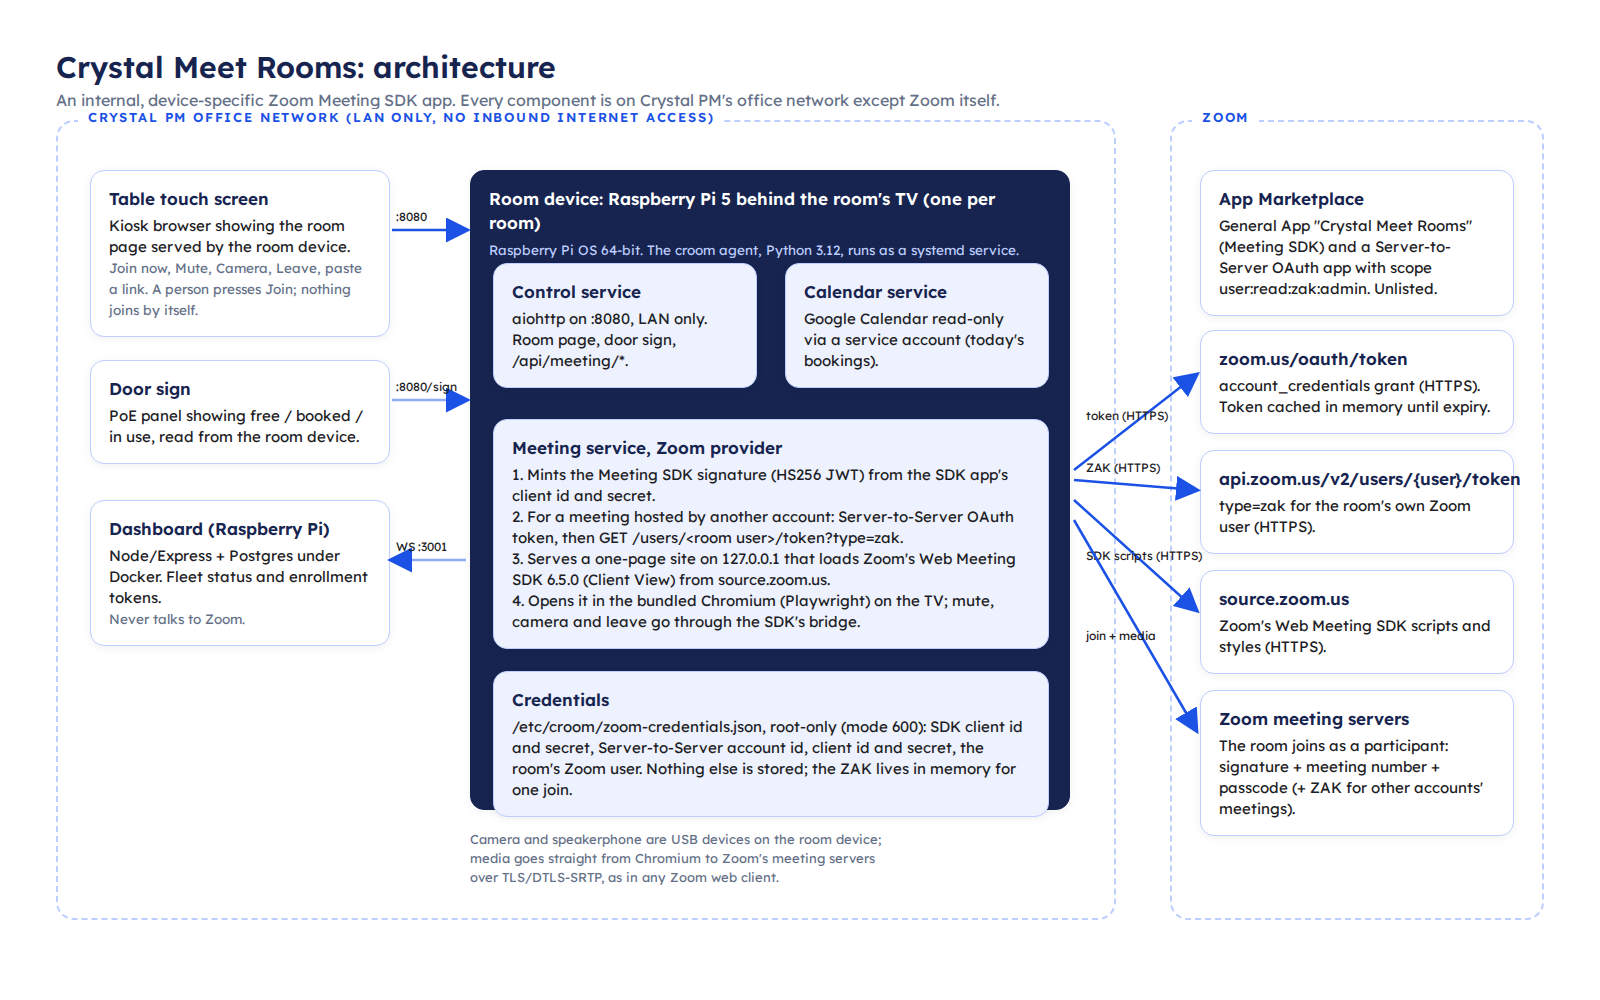
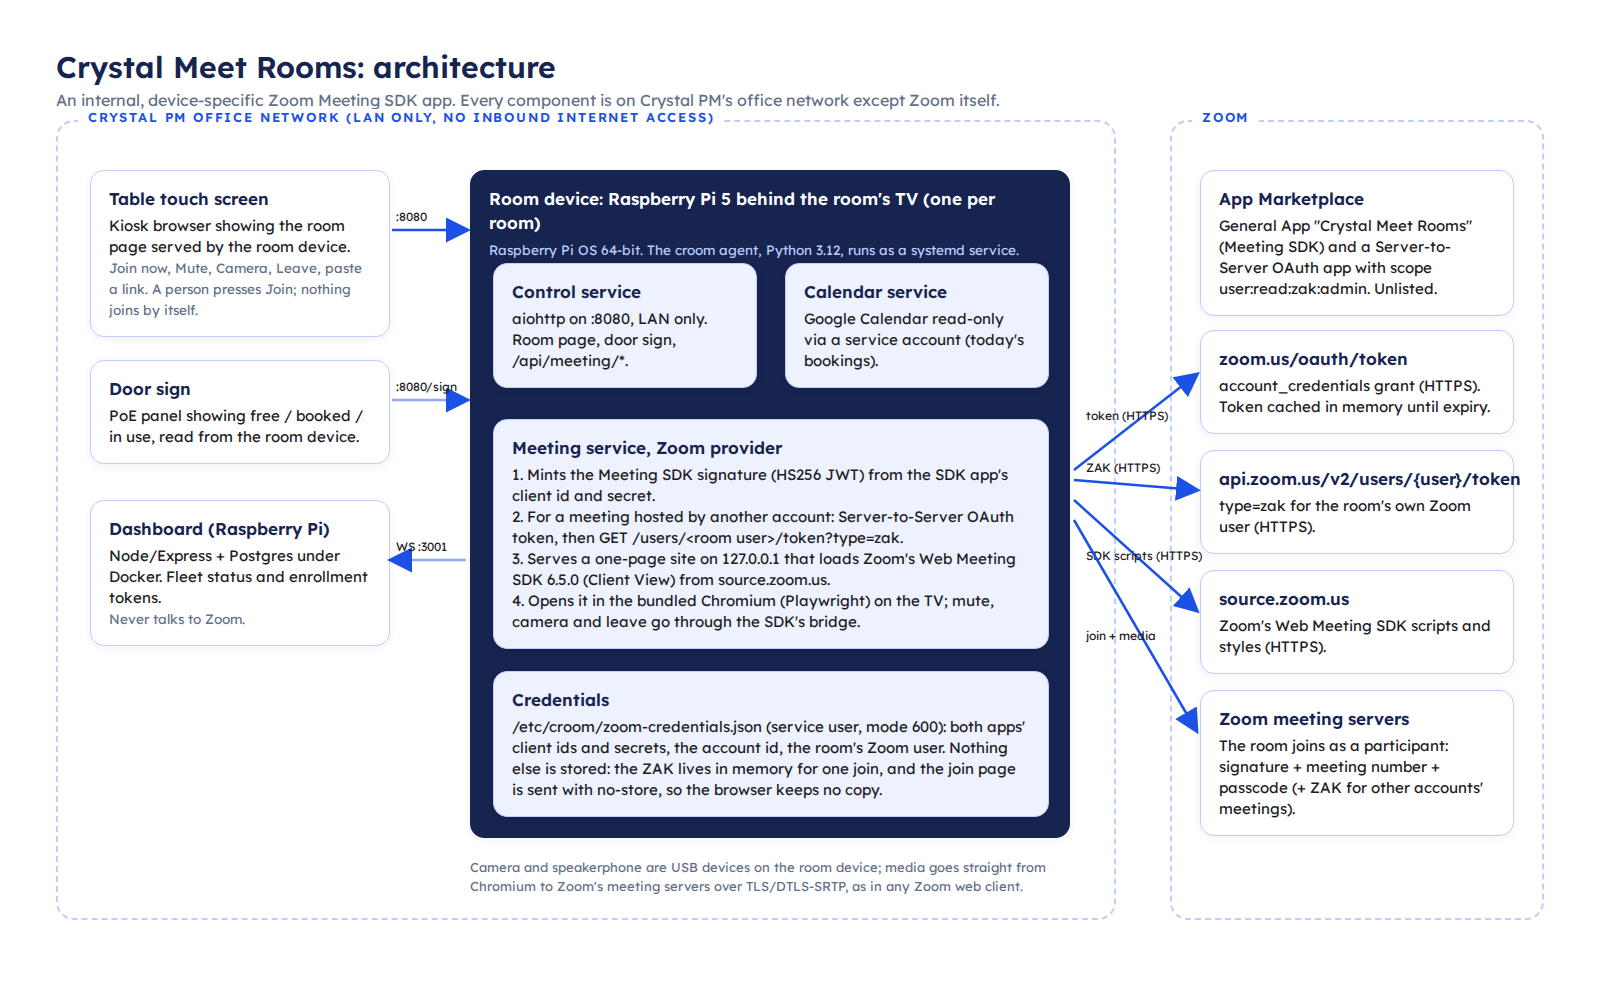
docs(zoom): architecture diagram says service user, mode 600, and notes the no-store join page
The Credentials box called the file root-only; the installer gives it to the
service user with mode 600. It now also says the join page is sent with
no-store, so the browser keeps no copy. The device box is a little taller to
fit, and the review checklist asks for the re-rendered diagram to be
uploaded again.

Changed region(s): [[0.2812, 0.713, 0.6875, 0.899]]

diff --git a/deploy/zoom-marketplace/render_diagram.py b/deploy/zoom-marketplace/render_diagram.py
@@ -49,13 +49,13 @@ svg {{ position: absolute; left: 0; top: 0; width: 1600px; height: 1000px; point
 <div class="box" style="left:90px; top:360px; width:300px;"><b>Door sign</b>PoE panel showing free / booked / in use, read from the room device.</div>
 <div class="box" style="left:90px; top:500px; width:300px;"><b>Dashboard (Raspberry Pi)</b>Node/Express + Postgres under Docker. Fleet status and enrollment tokens.<br><span>Never talks to Zoom.</span></div>
 
-<div class="box dark" style="left:470px; top:170px; width:600px; height:640px;"><b>Room device: Raspberry Pi 5 behind the room's TV (one per room)</b><span>Raspberry Pi OS 64-bit. The croom agent, Python 3.12, runs as a systemd service.</span>
+<div class="box dark" style="left:470px; top:170px; width:600px; height:668px;"><b>Room device: Raspberry Pi 5 behind the room's TV (one per room)</b><span>Raspberry Pi OS 64-bit. The croom agent, Python 3.12, runs as a systemd service.</span>
   <div class="box inner" style="left:22px; top:92px; width:264px;"><b>Control service</b>aiohttp on :8080, LAN only. Room page, door sign, /api/meeting/*.</div>
   <div class="box inner" style="left:314px; top:92px; width:264px;"><b>Calendar service</b>Google Calendar read-only via a service account (today's bookings).</div>
   <div class="box inner" style="left:22px; top:248px; width:556px;"><b>Meeting service, Zoom provider</b>1. Mints the Meeting SDK signature (HS256 JWT) from the SDK app's client id and secret.<br>2. For a meeting hosted by another account: Server-to-Server OAuth token, then GET /users/&lt;room user&gt;/token?type=zak.<br>3. Serves a one-page site on 127.0.0.1 that loads Zoom's Web Meeting SDK 6.5.0 (Client View) from source.zoom.us.<br>4. Opens it in the bundled Chromium (Playwright) on the TV; mute, camera and leave go through the SDK's bridge.</div>
-  <div class="box inner" style="left:22px; top:500px; width:556px;"><b>Credentials</b>/etc/croom/zoom-credentials.json, root-only (mode 600): SDK client id and secret, Server-to-Server account id, client id and secret, the room's Zoom user. Nothing else is stored; the ZAK lives in memory for one join.</div>
+  <div class="box inner" style="left:22px; top:500px; width:556px;"><b>Credentials</b>/etc/croom/zoom-credentials.json (service user, mode 600): both apps' client ids and secrets, the account id, the room's Zoom user. Nothing else is stored: the ZAK lives in memory for one join, and the join page is sent with no-store, so the browser keeps no copy.</div>
 </div>
-<div class="note" style="left:470px; top:830px;">Camera and speakerphone are USB devices on the room device; media goes straight from Chromium to Zoom's meeting servers over TLS/DTLS-SRTP, as in any Zoom web client.</div>
+<div class="note" style="left:470px; top:858px; max-width:600px;">Camera and speakerphone are USB devices on the room device; media goes straight from Chromium to Zoom's meeting servers over TLS/DTLS-SRTP, as in any Zoom web client.</div>
 
 <div class="box" style="left:1200px; top:170px; width:314px;"><b>App Marketplace</b>General App "Crystal Meet Rooms" (Meeting SDK) and a Server-to-Server OAuth app with scope user:read:zak:admin. Unlisted.</div>
 <div class="box" style="left:1200px; top:330px; width:314px;"><b>zoom.us/oauth/token</b>account_credentials grant (HTTPS). Token cached in memory until expiry.</div>

diff --git a/deploy/zoom-marketplace/review-response.md b/deploy/zoom-marketplace/review-response.md
@@ -95,7 +95,7 @@ The room joined at [TO CONFIRM: date, time and time zone].
   Upload the video where Zoom can open it without signing in, and fill in the link and join time in test-plan.md sections 8 and 9 and in replies 2 and 6.
 - [ ] **Reviewer access**: decide which of options A, B and C to offer, then fill in or delete their [TO CONFIRM] items in test-plan.md section 9 and reply 2. For C, publish one room's page behind a password for the review only, and withdraw it afterwards.
 - [ ] **Test plan**: fill in the review contact, plan date and room, export it to PDF, and attach it to the reply and the submission.
-- [ ] **Technical Design › Security**: update answer 3 with the wording in `listing.md`. The credentials file belongs to the service user with mode 600; it is not "root-only". The architecture diagram (`architecture.png` and `.pdf`) still says "root-only": change that word in `render_diagram.py` and re-render it before uploading it again.
+- [ ] **Technical Design › Security**: update answer 3 with the wording in `listing.md`. The credentials file belongs to the service user with mode 600; it is not "root-only". Upload the re-rendered architecture diagram (`architecture.png` or `.pdf`) again: it now has the same wording and the no-store note.
 - [ ] **Publish page**: under test credentials, replace "none" with "No end-user login; see the test plan, section 9 (video, live session)".
 - [ ] **Reply and resubmit**: reply to the reviewers' email with the six answers, then resubmit from the Publish page.
 
